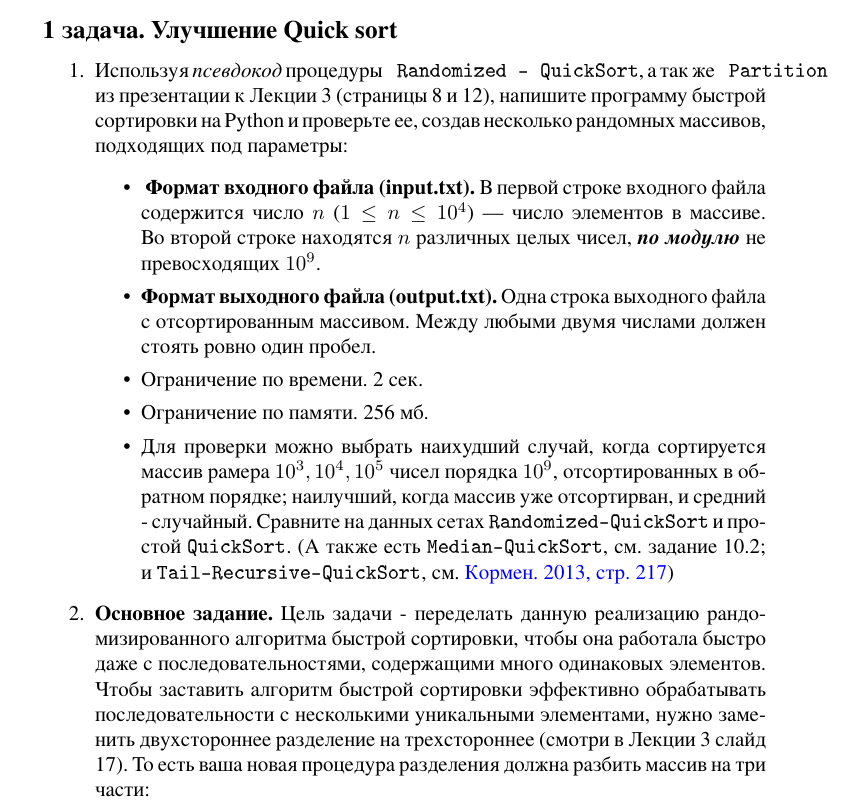
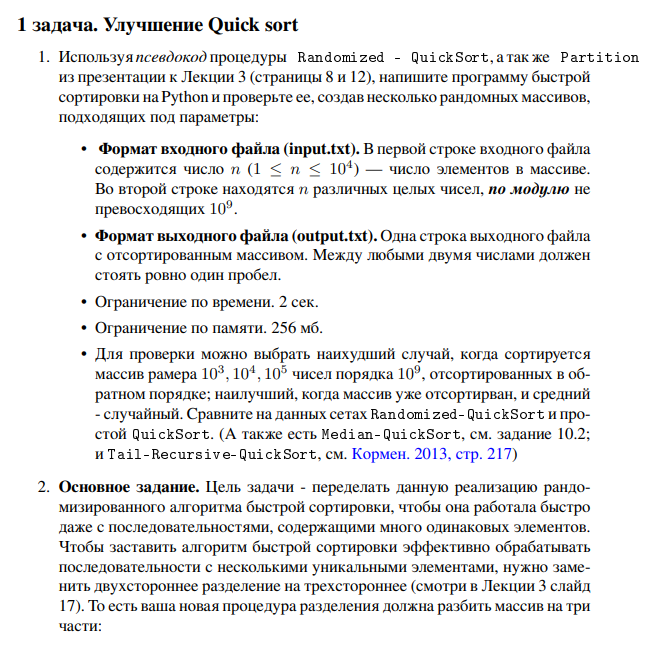
readme & allsrc.py from lab4

Changed region(s): [[0.0305, 0.0, 0.9771, 0.9907]]

diff --git a/lab3/allsrc.py b/lab3/allsrc.py
@@ -1,8 +1,8 @@
 import os
 import subprocess
 
-
 def run_all_src_files():
+    project_root = os.path.abspath(os.path.join(os.getcwd(), '..'))
     for task in os.listdir(os.getcwd()):
         task_path = os.path.join(os.getcwd(), task)
 
@@ -10,18 +10,24 @@ def run_all_src_files():
             src_dir = os.path.join(task_path, 'src')
 
             if os.path.isdir(src_dir):
-
                 for root, dirs, files in os.walk(src_dir):
                     for file in files:
                         if file.endswith(".py") and file != "__init__.py":
                             file_path = os.path.join(root, file)
                             path_array = file_path.split("\\")
-                            print('----------------------')
-                            print(f"Launched {path_array[-3]}:")
-                            subprocess.run(["python", file_path])
-                            print('----------------------')
+                            print('v----------------------v')
+                            print(f"Launched {path_array[-3]} ✅")
+
+
+                            subprocess.run(
+                                ["python", file_path],
+                                cwd=project_root,
+                                env={**os.environ, "PYTHONPATH": project_root}
+                            )
+
+                            print('^----------------------^')
+                            print("\n\n\n")
 
 
 if __name__ == "__main__":
     run_all_src_files()
-

diff --git a/lab3/lab.md b/lab3/lab.md
@@ -1,0 +1,40 @@
+# Лабораторная работа №3: `Сортировки и геометрия`
+
+**Студент ИТМО**: Афанасьев Дмитрий Михайлович  
+**Группа**: 465071  
+**Вариант 2**
+
+## Навигация
+
+- [x] [Задача 1 - Улучшение Quick Sort](#task1)
+- [x] [Задача 3 - Сортировка пугалом](#task3)
+- [x] [Задача 4 - Точки и отрезки](#task4)
+- [x] [Задача 5 - Индекс Хирша](#task5)
+- [x] [Задача 7 - Цифровая сортировка](#task7)
+- [x] [Задача 8 - K ближайших точек к началу координат](#task8)
+
+---
+
+## Описание
+
+В этой лабораторной работе необходимо научиться работать с различными алгоритмами сортировки и решением задач геометрии.  
+Задачи включают реализацию и улучшение популярных алгоритмов сортировки, а также вычисление геометрических характеристик.
+
+## Запуск проекта
+
+1. Клонируйте репозиторий:  
+   ```bash
+   git clone https://github.com/Dima51Al/algorithms-and-data-structures
+   ```
+2. Перейдите в папку с проектом:  
+   ```bash
+   cd algorithms-and-data-structures/lab3
+   ```
+3. **Запуск всех задач:**  
+   ```bash
+   py allsrc.py
+   ```
+4. **тесты**
+```bash
+   pytest
+   ```

diff --git a/lab3/task7/README.MD b/lab3/task7/README.MD
@@ -1,5 +1,35 @@
 # Задание 7
-![img.png](img.png)
+
+Студент ИТМО: Афанасьев Дмитрий Михайлович  465071
+
+## Вариант 2
+
+## Задание 
+![img_2.png](img_2.png)
+![img_3.png](img_3.png)
+## Ограничения по времени и памяти
+
+- Ограничение по времени. 2сек.
+- Ограничение по памяти. 256 мб.
 
 
-![img_1.png](img_1.png)
+## Запуск проекта
+1. Клонируйте репозиторий:
+   ```bash
+    git clone https://github.com/Dima51Al/algorithms-and-data-structures
+   ```
+2. Перейдите в папку с проектом:
+   ```bash
+   cd algorithms-and-data-structures/lab3
+   ```
+3. Запустите программу:
+   ```bash
+   python src/main.py
+   ```
+
+
+## Тестирование
+Для запуска тестов выполните:
+```bash
+   pytest 
+```

diff --git a/lab3/task4/README.MD b/lab3/task4/README.MD
@@ -1,1 +1,35 @@
 # Задание 4
+
+Студент ИТМО: Афанасьев Дмитрий Михайлович  465071
+
+## Вариант 2
+
+## Задание 
+![img_1.png](img_1.png)
+![img_2.png](img_2.png)
+## Ограничения по времени и памяти
+
+- Ограничение по времени. 2сек.
+- Ограничение по памяти. 256 мб.
+
+
+## Запуск проекта
+1. Клонируйте репозиторий:
+   ```bash
+    git clone https://github.com/Dima51Al/algorithms-and-data-structures
+   ```
+2. Перейдите в папку с проектом:
+   ```bash
+   cd algorithms-and-data-structures/lab3
+   ```
+3. Запустите программу:
+   ```bash
+   python src/main.py
+   ```
+
+
+## Тестирование
+Для запуска тестов выполните:
+```bash
+   pytest 
+```

diff --git a/lab3/task5/README.MD b/lab3/task5/README.MD
@@ -1,1 +1,35 @@
 # Задание 5
+
+Студент ИТМО: Афанасьев Дмитрий Михайлович  465071
+
+## Вариант 2
+
+## Задание 
+![img_1.png](img_1.png)
+![img_2.png](img_2.png)
+## Ограничения по времени и памяти
+
+- Ограничение по времени. 2сек.
+- Ограничение по памяти. 256 мб.
+
+
+## Запуск проекта
+1. Клонируйте репозиторий:
+   ```bash
+    git clone https://github.com/Dima51Al/algorithms-and-data-structures
+   ```
+2. Перейдите в папку с проектом:
+   ```bash
+   cd algorithms-and-data-structures/lab3
+   ```
+3. Запустите программу:
+   ```bash
+   python src/main.py
+   ```
+
+
+## Тестирование
+Для запуска тестов выполните:
+```bash
+   pytest 
+```

diff --git a/lab3/task8/README.MD b/lab3/task8/README.MD
@@ -1,1 +1,35 @@
 # Задание 8
+
+Студент ИТМО: Афанасьев Дмитрий Михайлович  465071
+
+## Вариант 2
+
+## Задание 
+![img.png](img.png)
+![img_1.png](img_1.png)
+## Ограничения по времени и памяти
+
+- Ограничение по времени. 2сек.
+- Ограничение по памяти. 256 мб.
+
+
+## Запуск проекта
+1. Клонируйте репозиторий:
+   ```bash
+    git clone https://github.com/Dima51Al/algorithms-and-data-structures
+   ```
+2. Перейдите в папку с проектом:
+   ```bash
+   cd algorithms-and-data-structures/lab3
+   ```
+3. Запустите программу:
+   ```bash
+   python src/main.py
+   ```
+
+
+## Тестирование
+Для запуска тестов выполните:
+```bash
+   pytest 
+```

diff --git a/lab3/task1/README.MD b/lab3/task1/README.MD
@@ -1,1 +1,34 @@
 # Задание 1
+
+Студент ИТМО: Афанасьев Дмитрий Михайлович  465071
+
+## Вариант 2
+
+## Задание 
+![img.png](img.png)
+## Ограничения по времени и памяти
+
+- Ограничение по времени. 2сек.
+- Ограничение по памяти. 256 мб.
+
+
+## Запуск проекта
+1. Клонируйте репозиторий:
+   ```bash
+    git clone https://github.com/Dima51Al/algorithms-and-data-structures
+   ```
+2. Перейдите в папку с проектом:
+   ```bash
+   cd algorithms-and-data-structures/lab3
+   ```
+3. Запустите программу:
+   ```bash
+   python src/main.py
+   ```
+
+
+## Тестирование
+Для запуска тестов выполните:
+```bash
+   pytest 
+```

diff --git a/lab3/task3/README.MD b/lab3/task3/README.MD
@@ -1,1 +1,34 @@
 # Задание 3
+
+Студент ИТМО: Афанасьев Дмитрий Михайлович  465071
+
+## Вариант 2
+
+## Задание 
+![img.png](img.png)
+## Ограничения по времени и памяти
+
+- Ограничение по времени. 2сек.
+- Ограничение по памяти. 256 мб.
+
+
+## Запуск проекта
+1. Клонируйте репозиторий:
+   ```bash
+    git clone https://github.com/Dima51Al/algorithms-and-data-structures
+   ```
+2. Перейдите в папку с проектом:
+   ```bash
+   cd algorithms-and-data-structures/lab4
+   ```
+3. Запустите программу:
+   ```bash
+   python src/main.py
+   ```
+
+
+## Тестирование
+Для запуска тестов выполните:
+```bash
+   pytest 
+```
